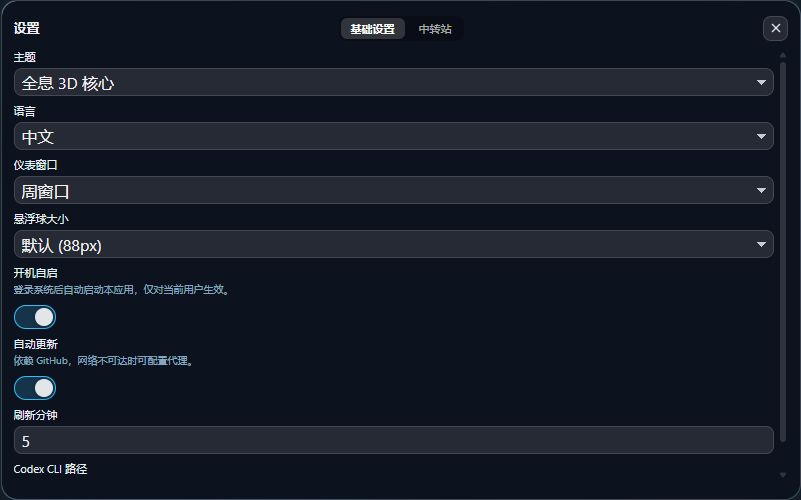
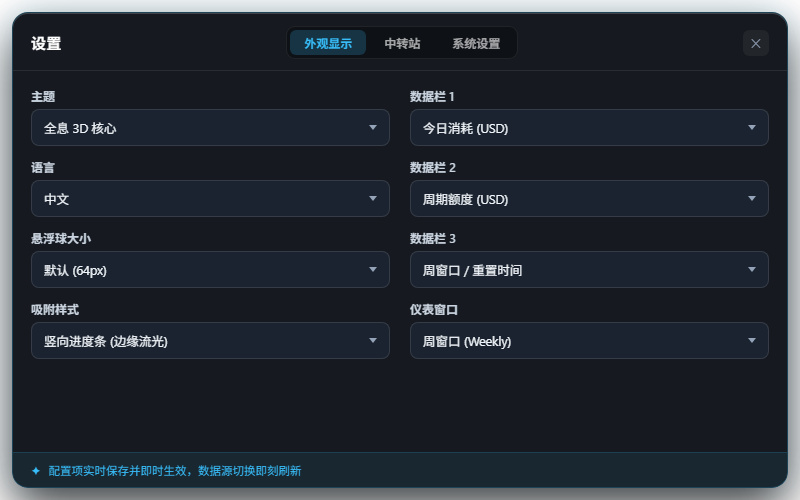
docs: 更新 README 与界面功能截图，移除旧面板图，新增托盘预览及吸附条资产

diff --git a/README.en.md b/README.en.md
@@ -21,38 +21,41 @@ The upstream instructions that still apply—installation, Codex CLI path select
 
 ## Features added by this fork
 
-Compared with the upstream project, this fork focuses on these additions:
+Compared with the upstream project, this fork focuses on these additions and improvements:
 
 - **Third-party provider adapter**: reads today cost, cycle quota, and weekly-window data from a compatible `sub2api` usage endpoint.
-- **Multi-site management**: configure multiple provider sites and normalize their `/v1/usage` request URL.
-- **Multi-key management**: store multiple API keys per site with masking, editing, deletion, and activation.
-- **Connection testing**: validate a provider before saving or switching, with clear success, authentication, and API error feedback.
-- **Source switching**: switch between the official Codex CLI and a provider, with the active site and key shown in the main panel.
+- **Multi-site & multi-key management**: configure multiple provider sites and normalize `/v1/usage` request URLs; store multiple API keys per site with masking, editing, deletion, and activation.
+- **Connection testing & instant switching**: validate providers before saving or switching; data source switching responds immediately with silent background refresh.
 - **Provider-specific quota cards**: render “today cost / cycle quota / weekly window” without applying the official CLI estimate logic.
-- **Top action bar**: reorganizes the main-panel shortcuts for floating ball, settings, pin, refresh, theme, source, and hide-to-tray actions.
-- **Settings interaction**: expands the settings window to `800 × 500`; removes Cancel/Save buttons so selections, toggles, and source changes apply immediately, while text inputs save on change or blur.
+- **Unified Quick Menu**: right-clicking either the floating ball or main panel invokes a sleek dark-glass quick menu to refresh data, switch sources, switch themes, open settings, or quit.
+- **System tray preview**: hover over the tray icon to reveal an instant glowing quota preview card with status indicators, active provider name, and live quota cards without opening the full window.
+- **Floating ball docking modes (Vertical mini dock bar)**: switch edge docking between hemispherical snap and a slender vertical mini progress bar with left/right edge awareness, dynamic glow, and adaptive sizing.
+- **Smart floating ball & settings transition**: opening settings in floating ball mode transitions smoothly into the centered settings panel and returns automatically to floating ball mode when closed.
+- **Categorized settings & immediate persistence**: expanded `800 × 500` settings layout categorized into Appearance, Provider, and System tabs, with immediate persistence for all options.
+- **Refactored 3D dashboard foundation**: eliminated legacy code, unified 3D dashboard base, and standardized data source contracts across official and provider modes.
 
-The upstream panel, floating ball, edge docking, themes, refresh, and desktop settings remain available but are not repeated here; installation and basic usage are documented below. Screenshots are grouped by fork feature, theme, and floating-ball mode for quick comparison.
+Upstream panel, floating ball, theme rendering, auto-refresh, and desktop foundation remain supported.
 
 ## Screenshots
 
-The tables show the currently available theme examples; add more screenshots as new themes are introduced without changing this description.
+Below are screenshots of core features, quick interactions, and available themes:
 
-### Fork feature pages
+### Core features & settings
 
 <table>
   <tr>
-    <td width="50%"><strong>Provider and key management</strong><br><img src="docs/assets/provider-settings.png" alt="Provider and key management page" width="100%"></td>
-    <td width="50%"><strong>Settings (800 × 500, changes apply immediately)</strong><br><img src="docs/assets/settings-expanded.png" alt="Expanded settings page" width="100%"></td>
+    <td width="50%"><strong>Provider & key management</strong><br><img src="docs/assets/provider-settings.png" alt="Provider and key management page" width="100%"></td>
+    <td width="50%"><strong>Categorized settings (changes apply immediately)</strong><br><img src="docs/assets/settings-expanded.png" alt="Expanded categorized settings page" width="100%"></td>
   </tr>
 </table>
 
-### Usage panels across themes
+### Quick interactions & docking styles
 
 <table>
   <tr>
-    <td width="50%"><strong>Holo 3D Core</strong><br><img src="docs/assets/third-party-usage-dashboard.png" alt="Third-party usage panel in Holo 3D Core theme" width="100%"></td>
-    <td width="50%"><strong>Pyro Core</strong><br><img src="docs/assets/theme-pyro.png" alt="Third-party usage panel in Pyro Core theme" width="100%"></td>
+    <td width="33%"><strong>Unified Quick Menu</strong><br><img src="docs/assets/quick-menu.png" alt="Unified Quick Menu" width="100%"></td>
+    <td width="33%"><strong>Tray quota preview</strong><br><img src="docs/assets/tray-preview.png" alt="Tray quota preview" width="100%"></td>
+    <td width="34%"><strong>Vertical dock bar snap</strong><br><img src="docs/assets/dock-bar.png" alt="Vertical dock bar snap" width="100%"></td>
   </tr>
 </table>
 
@@ -73,8 +76,9 @@ These images are rendered from the current branch’s frontend components and st
 
 1. Install and sign in to Codex CLI.
 2. Start the app. It tries to find `codex` or `codex.exe` automatically.
-3. If reading fails, open **Settings → 基础设置** and choose the Codex CLI path.
+3. If reading fails, open **Settings → System Settings** and choose the Codex CLI path.
 4. Use the full panel for quota details. Click the circle button to switch to the floating ball; double-click the ball to restore the panel.
+5. Right-click the floating ball or main panel to open the Quick Menu for instant refresh, source switching, and settings.
 
 ### 2. Third-party provider
 
@@ -144,12 +148,17 @@ The portable build does not create an installer or install WebView2 automaticall
 ```text
 codex-widget-monitor/
 ├─ .github/workflows/   # CI and release workflows
-├─ docs/assets/         # README screenshots
+├─ docs/assets/         # README screenshots and feature previews
 ├─ src/                 # Frontend UI, themes, and interactions
+│  ├─ quick-menu/       # Unified right-click quick menu
+│  ├─ tray-preview/     # System tray quota preview
+│  └─ components/       # 3D dashboard & visual components
 ├─ src-tauri/           # Rust backend, Tauri config, and provider adapter
 ├─ scripts/             # Build/release helpers
-├─ index.html           # Vite entry page
-├─ package.json         # Frontend dependencies and npm scripts
+├─ index.html           # Main window entry
+├─ quick-menu.html      # Quick menu entry
+├─ tray-preview.html    # Tray preview entry
+├─ package.json         # Dependencies and scripts
 └─ README.md
 ```
 
